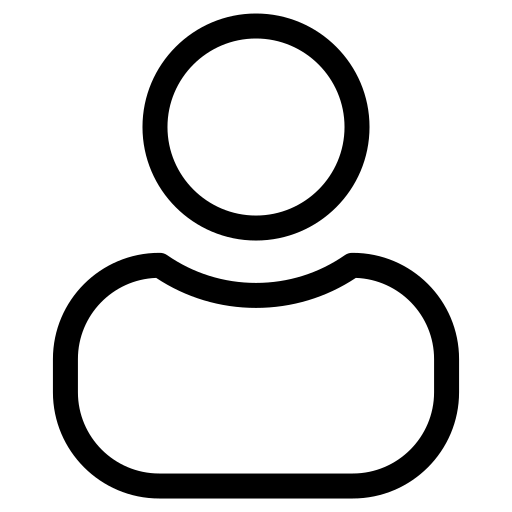
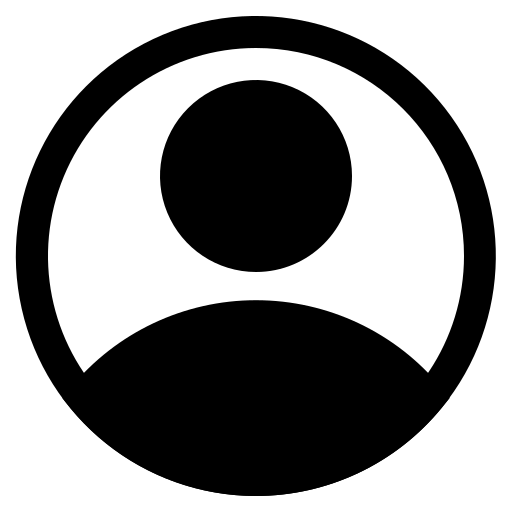
Initial dashboard restructure

diff --git a/cleanlyst-frontend/src/pages/customer/CustomerDashboard.vue b/cleanlyst-frontend/src/pages/customer/CustomerDashboard.vue
@@ -3,7 +3,11 @@
     <section class="side-nav col-lg-2">
       <ul class="side-nav-links hide-mobile">
         <li v-for="item in navItems" :key="item.name">
-          <router-link :to="{ name: item.name }" class="nav-link" :class="{ active: activeRouteName === item.name }">
+          <router-link
+            :to="{ name: item.name }"
+            class="nav-link"
+            :class="{ active: activeRouteName === item.name }"
+          >
             {{ item.label }}
           </router-link>
         </li>
@@ -11,7 +15,11 @@
 
       <ul class="side-nav-links hide-desktop">
         <li v-for="item in navItems" :key="`mobile-${item.name}`">
-          <router-link :to="{ name: item.name }" class="nav-link mobile-nav-link" :class="{ active: activeRouteName === item.name }">
+          <router-link
+            :to="{ name: item.name }"
+            class="nav-link mobile-nav-link"
+            :class="{ active: activeRouteName === item.name }"
+          >
             <img class="side-nav-icons" :src="item.icon" :alt="item.label" />
             <span class="white-text">{{ item.label }}</span>
           </router-link>
@@ -26,54 +34,35 @@
         <router-link :to="{ name: 'BookCleaner' }" class="greenButton">Book a cleaner</router-link>
       </div>
 
-      <div v-if="activeRouteName === 'CustomerDashboard'" class="cleaners-container">
-        <p class="boldFont">Cleaners near you</p>
-        <div class="cleaner-card-container">
-          <div class="cleaner-card">
-            <div class="cleaner-profile">
-              <img :src="fallbackPhoto" alt="Cleaner" class="cleaner-avatar" />
-              <div class="name-rating">
-                <p class="cleaner-name no-margin">Jane Doe</p>
-                <p class="cleaner-rating no-margin">Rating: 4.8/5</p>
-              </div>
+      <div class="top-dash-container row no-gutter">
+        <div class="col-lg-9 cleaners-near-you">
+          <div v-if="activeRouteName === 'CustomerDashboard'" class="cleaners-container">
+            <div class="section-title">
+              <p class="boldFont no-margin">Cleaners near you</p>
+              <span class="text no-margin text-underline">See all</span>
             </div>
 
-            <div class="cleaner-info">
-              <p>Services</p>
-              <p>Price per hour</p>
-              <p>Available:</p>
-            </div>
-          </div>
-          <div class="cleaner-card">
-            <div class="cleaner-profile">
-              <img :src="fallbackPhoto" alt="Cleaner" class="cleaner-avatar" />
-              <div class="name-rating">
-                <p class="cleaner-name no-margin">Jane Doe</p>
-                <p class="cleaner-rating no-margin">Rating: 4.8/5</p>
+            <div class="cleaner-card-container">
+              <div v-for="cleaner in cleanersData" :key="cleaner.id" class="cleaner-card">
+                <div class="cleaner-profile">
+                  <img :src="cleaner.photo || fallbackPhoto" alt="Cleaner" class="cleaner-avatar" />
+                  <div class="name-rating">
+                    <p class="cleaner-name no-margin">{{ cleaner.name }}</p>
+                    <p class="cleaner-rating no-margin">Rating: {{ cleaner.rating }}/5</p>
+                  </div>
+                </div>
+
+                <div class="cleaner-info">
+                  <p>{{ cleaner.services }}</p>
+                  <p>{{ cleaner.price }}</p>
+                  <p>{{ cleaner.available }}</p>
+                </div>
               </div>
             </div>
-
-            <div class="cleaner-info">
-              <p>Services</p>
-              <p>Price per hour</p>
-              <p>Available:</p>
-            </div>
           </div>
-          <div class="cleaner-card">
-            <div class="cleaner-profile">
-              <img :src="fallbackPhoto" alt="Cleaner" class="cleaner-avatar" />
-              <div class="name-rating">
-                <p class="cleaner-name no-margin">Jane Doe</p>
-                <p class="cleaner-rating no-margin">Rating: 4.8/5</p>
-              </div>
-            </div>
-
-            <div class="cleaner-info">
-              <p>Services</p>
-              <p>Price per hour</p>
-              <p>Available:</p>
-            </div>
-          </div>
+        </div>
+        <div class="col-lg-3 messages-notifications">
+          <p class="boldFont">Messages</p>
         </div>
       </div>
 
@@ -101,28 +90,10 @@
             You have not requested a cleaner yet. Start a booking when you're ready.
           </p>
           <div class="recent-card">
-            <div class="recent-cleaner-card">
+            <div v-for="booking in recentBookings" :key="booking.id" class="recent-cleaner-card">
               <div class="recent-details">
-                <p class="no-margin">Jane Doe</p>
-                <p class="small">12/Apr/26 - Home Cleaning</p>
-              </div>
-              <div class="rebook-button">
-                <button class="blueButton">Rebook</button>
-              </div>
-            </div>
-            <div class="recent-cleaner-card">
-              <div class="recent-details">
-                <p class="no-margin">Jane Doe</p>
-                <p class="small">12/Apr/26 - Home Cleaning</p>
-              </div>
-              <div class="rebook-button">
-                <button class="blueButton">Rebook</button>
-              </div>
-            </div>
-            <div class="recent-cleaner-card">
-              <div class="recent-details">
-                <p class="no-margin">Jane Doe</p>
-                <p class="small">12/Apr/26 - Home Cleaning</p>
+                <p class="no-margin">{{ booking.name }}</p>
+                <p class="small">{{ booking.detail }}</p>
               </div>
               <div class="rebook-button">
                 <button class="blueButton">Rebook</button>
@@ -169,6 +140,7 @@ import { computed, onMounted, ref } from 'vue'
 import { useRoute } from 'vue-router'
 import { requireSupabase } from '@/lib/supabase'
 import { useAuthStore } from '@/stores/auth'
+import cleanerData from '@/data/cleanerData.json'
 import fallbackPhoto from '@/assets/landingpage.png'
 import dashboardIcon from '@/assets/dashboard.png'
 import bookingsIcon from '@/assets/bookings.png'
@@ -183,11 +155,28 @@ interface BookingSummary {
   status: 'pending' | 'accepted' | 'declined' | 'paid' | 'in_progress' | 'completed' | 'cancelled'
 }
 
+interface CleanerDataItem {
+  id: string
+  name: string
+  rating: number
+  services: string
+  price: string
+  available: string
+  photo?: string
+}
+
+interface CleanerDataJson {
+  cleanersData: CleanerDataItem[]
+  recentBookings: Array<{ id: string; name: string; detail: string }>
+}
+
 const auth = useAuthStore()
 const route = useRoute()
 const bookings = ref<BookingSummary[]>([])
 const loading = ref(true)
 const errorMessage = ref('')
+const cleanersData = (cleanerData as CleanerDataJson).cleanersData
+const recentBookings = (cleanerData as CleanerDataJson).recentBookings
 const navItems = [
   { name: 'CustomerDashboard', label: 'Dashboard', icon: dashboardIcon },
   { name: 'CustomerBookings', label: 'My Bookings', icon: bookingsIcon },
@@ -245,10 +234,12 @@ async function loadBookings() {
 <style scoped>
 .dashboard-container {
   min-height: calc(100vh - 90px);
-  padding: 12px;
+  padding: 0 12px;
+}
+section.side-nav.col-lg-2 {
+  border-right: 1px solid var(--grey);
 }
 ul.side-nav-links {
-  background: var(--green);
   padding: 30px 8px;
   margin: 10px 9px;
   border-radius: 8px;
@@ -257,11 +248,12 @@ ul.side-nav-links {
   margin-bottom: 20px;
 }
 .nav-link {
-  color: var(--white);
+  color: var(--grey);
   font-weight: 500;
   text-decoration: none;
 }
 .nav-link.active {
+  color: var(--black);
   text-decoration: underline;
   text-underline-offset: 6px;
 }
@@ -274,31 +266,54 @@ section.main-page.col-lg-10 {
   justify-content: space-between;
   border-bottom: 1px solid grey;
 }
-.cleaners-container {
-  padding: 10px 0;
+.top-dash-container.row.no-gutter {
+  margin: 10px 0;
+}
+.cleaners-near-you {
+  padding: 0 10px;
+}
+.cleaners-container,
+.messages-notifications {
+  padding: 10px;
+  box-shadow: 0 7px 9px rgba(15, 23, 42, 0.08);
+  border: 1px solid rgba(0, 0, 0, 0.06);
+  border-radius: 5px;
+}
+.section-title {
+  display: flex;
+  justify-content: space-between;
+  align-items: center;
+  margin-bottom: 5px;
 }
 .cleaner-card-container {
   display: grid;
   grid-template-columns: repeat(3, minmax(0, 1fr));
   gap: 15px;
 }
-img.cleaner-avatar {
+.cleaner-card {
+  background: var(--white);
+  border-radius: 5px;
+  padding: 16px 14px;
+  box-shadow: 0 10px 24px rgba(15, 23, 42, 0.08);
+  border: 1px solid rgba(0, 0, 0, 0.06);
+}
+.cleaner-profile {
+  display: flex;
+  align-items: center;
+}
+.cleaner-avatar {
   width: 50px;
   height: 50px;
   border-radius: 50%;
   object-fit: cover;
   margin-right: 10px;
 }
+
 .booking-overview {
   display: flex;
   flex-direction: row;
   justify-content: space-between;
   margin: 12px 0;
-}
-.cleaner-card {
-  border: 1px solid var(--green);
-  border-radius: 5px;
-  padding: 12px 6px;
 }
 .upcoming-booking-container,
 .recent-booking-container {
@@ -306,6 +321,9 @@ img.cleaner-avatar {
   padding: 20px;
   border-radius: 8px;
   width: 45%;
+}
+.upcoming-card {
+  margin-top: 12px;
 }
 .upcoming-CTAs {
   border-top: 2px solid grey;
@@ -317,6 +335,9 @@ img.cleaner-avatar {
 }
 .upcoming-CTAs button {
   width: 45%;
+}
+.recent-card {
+  margin-top: 16px;
 }
 .recent-cleaner-card {
   display: flex;
@@ -345,6 +366,9 @@ img.cleaner-avatar {
   .dashboard-container {
     padding: 4px;
   }
+  section.main-page.col-lg-10 {
+    padding: 3px;
+  }
   .upcoming-booking-container,
   .recent-booking-container {
     width: 100%;
@@ -358,13 +382,16 @@ img.cleaner-avatar {
   }
   .greeting-header {
     display: flex;
-    flex-direction: column;
-    align-items: flex-start;
+    flex-direction: row;
+    align-items: center;
     padding: 10px 0;
   }
   .greeting-header h2 {
-    margin-bottom: 10px;
     font-size: 22px;
+  }
+  .cleaners-near-you {
+    padding: 0;
+    margin-bottom: 10px;
   }
   img.side-nav-icons {
     width: 24px;
@@ -374,6 +401,7 @@ img.cleaner-avatar {
     display: flex;
     flex-direction: row;
     justify-content: space-between;
+    background-color: var(--green);
   }
   .side-nav-links li {
     margin-bottom: 0;
@@ -385,6 +413,11 @@ img.cleaner-avatar {
   }
   .stats-row {
     grid-template-columns: 1fr;
+  }
+  .cleaner-card-container {
+    display: grid;
+    grid-template-columns: repeat(2, minmax(0, 1fr));
+    gap: 15px;
   }
 }
 </style>

diff --git a/cleanlyst-frontend/src/styles/styles.css b/cleanlyst-frontend/src/styles/styles.css
@@ -23,6 +23,7 @@ a {
   --blue: #0b2d72;
   --green: #408a71;
   --lightBlue: #e7edf6;
+  --grey: #928f9b;
 
   --max-width: 1500px;
   --navbar-height: 90px;
